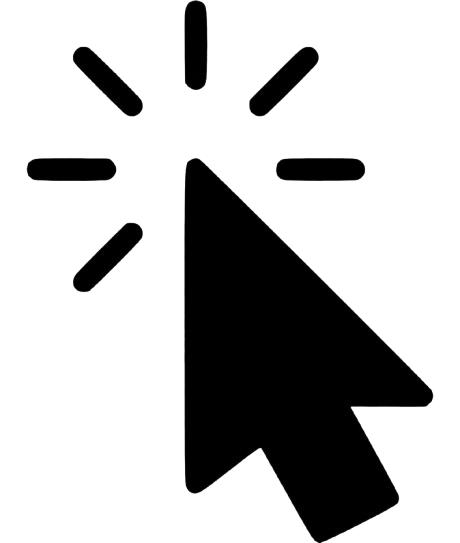
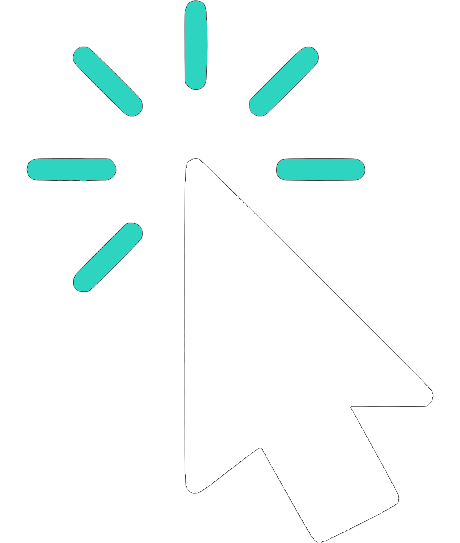
fixed some shit and responsive

diff --git a/src/components/HeroNav.tsx b/src/components/HeroNav.tsx
@@ -1,49 +1,40 @@
 import { SignedIn, SignedOut, SignUpButton, UserButton } from "@clerk/nextjs";
+import Image from "next/image";
 
 const Nav = () => {
   return (
-    <div className="mx-4 mt-4 px-6 bg-black/85 text-white rounded-2xl h-16 flex justify-between items-center">
-      <div className="flex content-center font-second text-blue-400 text-base pt-1">
+    <div className="lg:mx-4 mx-auto mt-4 lg:px-6 px-2 bg-black/85 text-gray-200 rounded-2xl lg:h-16 h-12 flex justify-between items-center">
+      <div className="flex content-center font-second text-teal-400 lg:text-lg text-sm font-bold lg:tracking-wide tracking-normal">
         <SignedOut>
-          <SignUpButton />
+          <SignUpButton>
+            <button className="hover:text-white">Sign Up</button>
+          </SignUpButton>
         </SignedOut>
         <SignedIn>
           <UserButton />
         </SignedIn>
       </div>
-      <div className="flex flex-row ">
-        <h1 className="font-main text-white text-4xl">
+      <div className="flex flex-row items-center">
+        <h1 className="font-main text-gray-200 lg:text-4xl text-xl">
           <a href="/">Test</a>
         </h1>
-        <h1 className="font-main text-blue-400 text-4xl">
+        <h1 className="font-main text-teal-400 lg:text-4xl text-xl">
           <a href="/">Blog</a>
         </h1>
       </div>
-      <div className="flex ">
-        <div className="relative content-center">
-          <input
-            type=""
-            className="w-24 h-full bg-transparent placeholder:text-white placeholder:font-second text-blue-400 text-sm pl-10 pt-1.5 focus:outline-none font-second"
-            placeholder="Search..."
+      <div className="flex justify-center items-center">
+        <a
+          href="https://github.com/Levente0324/Next-Supabase-Prisma-Blog.git"
+          target="_blank"
+        >
+          <Image
+            src="/github.png"
+            className="w-6 lg:w-10"
+            width={40}
+            height={40}
+            alt="github"
           />
-          <button
-            className="absolute left-1 -top-0.5 rounded bg-transparent p-1.5 border border-transparent text-center text-sm text-white transition-all shadow-sm hover:shadow focus:bg-slate-700 focus:shadow-none active:bg-slate-700 hover:bg-slate-700 active:shadow-none disabled:pointer-events-none disabled:opacity-50 disabled:shadow-none"
-            type="button"
-          >
-            <svg
-              xmlns="http://www.w3.org/2000/svg"
-              viewBox="0 0 16 16"
-              fill="currentColor"
-              className="w-4 h-4"
-            >
-              <path
-                fill-rule="evenodd"
-                d="M9.965 11.026a5 5 0 1 1 1.06-1.06l2.755 2.754a.75.75 0 1 1-1.06 1.06l-2.755-2.754ZM10.5 7a3.5 3.5 0 1 1-7 0 3.5 3.5 0 0 1 7 0Z"
-                clip-rule="evenodd"
-              />
-            </svg>
-          </button>
-        </div>
+        </a>
       </div>
     </div>
   );

diff --git a/src/components/MainNav.tsx b/src/components/MainNav.tsx
@@ -4,17 +4,17 @@ const MainNav = () => {
   return (
     <>
       <div className="text-white flex flex-row justify-between w-full h-16 px-5 backdrop-blur-sm rounded-xl sticky top-0 z-50">
-        <div className="h-full flex flex-row justify-center items-center font-bold text-xl tracking-wide">
-          <h1>
+        <div className="h-full flex flex-row justify-center items-center font-bold text-xl tracking-wide pt-4">
+          <h1 className="text-teal-400 hover:text-teal-600">
             <a href="../mainpage">Home</a>
           </h1>
         </div>
-        <div className="w-16 h-full flex flex-row justify-center items-center font-bold text-3xl tracking-wide">
+        <div className="w-16 h-full flex flex-row justify-center items-center font-bold text-3xl tracking-wide pt-2">
           <h1>Test</h1>
           <h1>Blog</h1>
         </div>
-        <div className="h-full flex flex-row justify-center items-center font-bold text-xl tracking-wide">
-          <h1>
+        <div className="h-full flex flex-row justify-center items-center font-bold text-xl tracking-wide pt-4">
+          <h1 className="text-teal-400 hover:text-teal-600">
             <a href="../profile">Profile</a>
           </h1>
         </div>

diff --git a/src/app/page.tsx b/src/app/page.tsx
@@ -2,11 +2,25 @@ import FadeUpAnimation from "@/components/Animations/BottomFadeIn.client";
 import FadeDownAnimations from "@/components/Animations/TopFadeIn.client";
 import Hero from "@/components/Hero";
 import Nav from "@/components/HeroNav";
+import { currentUser } from "@clerk/nextjs/server";
+import { redirect } from "next/navigation";
 
-export default function Home() {
+export default async function Home() {
+  const user = await currentUser();
+
+  const isLoggedIn = () => {
+    if (user) {
+      redirect("/mainpage");
+    } else {
+      return false;
+    }
+  };
+
+  isLoggedIn();
+
   return (
-    <div className="bg-gradient-to-r from-blue-800 via-purple-600 to-fuchsia-800 flex justify-center w-full h-full overflow-hidden">
-      <div className="w-[1200px] h-full">
+    <div className="bg-gradient-to-r from-gray-950 via-slate-900 to-gray-950 flex justify-center w-full h-full overflow-hidden">
+      <div className="lg:w-[1200px] w-96 h-full">
         <FadeDownAnimations>
           <Nav />
         </FadeDownAnimations>

diff --git a/src/components/Hero.tsx b/src/components/Hero.tsx
@@ -2,20 +2,21 @@ import Image from "next/image";
 
 const Hero = () => {
   return (
-    <div className="w-full h-full flex flex-row">
-      <div className="text-9xl font-main text-white pl-12 pt-48">
+    <div className="w-full h-full flex lg:flex-row flex-col">
+      <div className="lg:text-9xl text-7xl font-main text-gray-200 lg:pl-12 pl-0 lg:pt-48 pt-16 text-center lg:text-left">
         <h1>Welcome to my</h1>
-        <h1 className="text-black/85 text-[170px]">
+
+        <h1 className="text-teal-400 lg:text-[170px] text-9xl lg:mt-0 mt-3">
           <a href="/mainpage">Blog</a>
         </h1>
       </div>
-      <div className="pt-40 pr-12">
+      <div className="lg:pt-40 pt-0 lg:pr-12 pr-0 mt-12 lg:mt-0 flex justify-center items-center">
         <Image
           src="/cursor.png"
           width={700}
           height={700}
-          alt="HeroCursor"
-          className="opacity-75 -rotate-6"
+          alt="hero"
+          className="w-72 lg:w-[700px]"
         />
       </div>
     </div>

diff --git a/src/app/sign-in/[[...sign-in]]/page.tsx b/src/app/sign-in/[[...sign-in]]/page.tsx
@@ -2,13 +2,8 @@ import { SignIn } from "@clerk/nextjs";
 
 export default function Page() {
   return (
-    <div className="w-full h-full flex justify-center pt-48">
-      <SignIn
-        forceRedirectUrl="/mainpage"
-        signUpFallbackRedirectUrl="/"
-        fallbackRedirectUrl="/"
-        signUpForceRedirectUrl="/mainpage"
-      />
+    <div className="w-full h-full flex justify-center pt-48 bg-gradient-to-r from-gray-950 via-slate-900 to-gray-950">
+      <SignIn forceRedirectUrl="/" fallbackRedirectUrl="/" />
     </div>
   );
 }

diff --git a/src/app/sign-up/[[...sign-up]]/page.tsx b/src/app/sign-up/[[...sign-up]]/page.tsx
@@ -2,13 +2,8 @@ import { SignUp } from "@clerk/nextjs";
 
 export default function Page() {
   return (
-    <div className="w-full h-full flex justify-center pt-48">
-      <SignUp
-        forceRedirectUrl="/mainpage"
-        signInFallbackRedirectUrl="/"
-        fallbackRedirectUrl="/"
-        signInForceRedirectUrl="/mainpage"
-      />
+    <div className="w-full h-full flex justify-center pt-48 bg-gradient-to-r from-gray-950 via-slate-900 to-gray-950">
+      <SignUp forceRedirectUrl="/" fallbackRedirectUrl="/" />
     </div>
   );
 }

diff --git a/src/components/User.tsx b/src/components/User.tsx
@@ -17,7 +17,7 @@ const User = async () => {
         <div className="flex flex-row gap-2">
           <Editbutton id={user?.id} name={user?.name} />
           <SignOutButton>
-            <button className="border border-white/70 rounded w-20 h-8 text-sm mt-1">
+            <button className="border border-white/70 rounded w-20 h-8 text-sm mt-1 hover:text-teal-400">
               Sign out
             </button>
           </SignOutButton>

diff --git a/src/components/Editbutton.client.tsx b/src/components/Editbutton.client.tsx
@@ -33,7 +33,7 @@ const Editbutton = (props: prop) => {
   return (
     <>
       <button
-        className="border border-white/70 rounded w-24 h-8 text-sm mt-1 font-second"
+        className="border border-white/70 rounded w-24 h-8 text-sm mt-1 font-second hover:text-teal-400"
         onClick={() => setIsOpen(true)}
       >
         Edit profile

diff --git a/src/app/layout.tsx b/src/app/layout.tsx
@@ -14,7 +14,10 @@ export default function RootLayout({
 }>) {
   return (
     <ClerkProvider>
-      <html lang="en">
+      <html
+        lang="en"
+        className="bg-gradient-to-r from-gray-950 via-slate-900 to-gray-950 flex"
+      >
         <body>{children}</body>
       </html>
     </ClerkProvider>

diff --git a/src/app/sign-in/[[...sign-in]]/loading.tsx b/src/app/sign-in/[[...sign-in]]/loading.tsx
@@ -1,0 +1,7 @@
+export default function Loading() {
+  return (
+    <div className="w-full h-full flex justify-center items-center text-3xl text-white bg-gradient-to-r from-gray-950 via-slate-900 to-gray-950">
+      <h1>Loading...</h1>
+    </div>
+  );
+}

diff --git a/src/app/sign-up/[[...sign-up]]/loading.tsx b/src/app/sign-up/[[...sign-up]]/loading.tsx
@@ -1,0 +1,7 @@
+export default function Loading() {
+  return (
+    <div className="w-full h-full flex justify-center items-center text-3xl text-white bg-gradient-to-r from-gray-950 via-slate-900 to-gray-950">
+      <h1>Loading...</h1>
+    </div>
+  );
+}

diff --git a/src/app/mainpage/loading.tsx b/src/app/mainpage/loading.tsx
@@ -1,0 +1,7 @@
+export default function Loading() {
+  return (
+    <div className="w-full h-full flex justify-center items-center text-3xl text-white">
+      <h1>Loading...</h1>
+    </div>
+  );
+}
